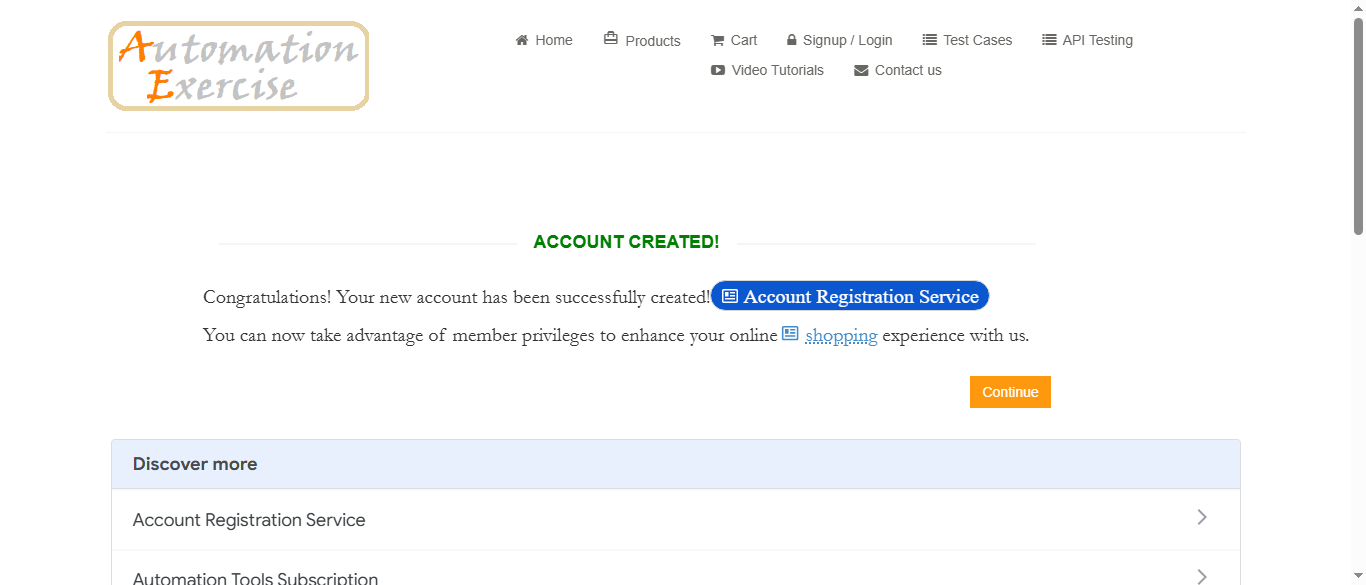
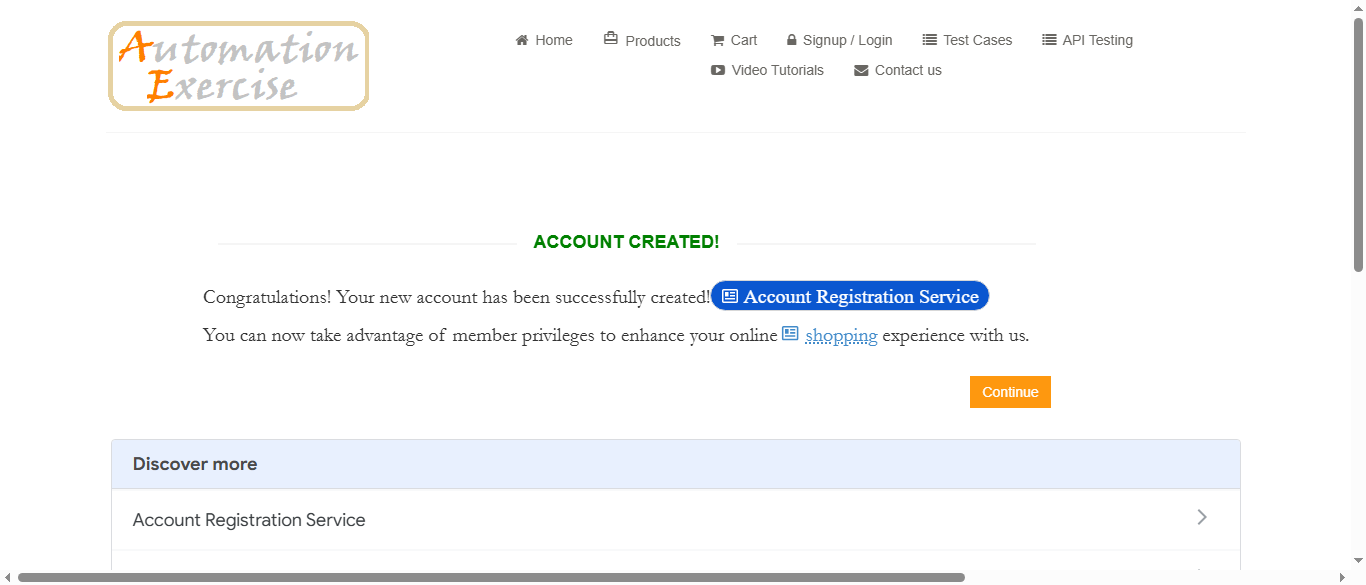
Adiciona o teste de deletar conta

Changed region(s): [[0.0, 0.9538, 0.7072, 1.0], [0.9839, 0.4, 1.0, 0.4615], [0.9839, 0.9538, 1.0, 0.9846]]

diff --git a/Testes/testeDeletarConta.py b/Testes/testeDeletarConta.py
@@ -1,0 +1,66 @@
+import time
+
+from selenium import webdriver
+from selenium.webdriver.common.by import By
+from selenium.webdriver.support.ui import WebDriverWait
+from selenium.webdriver.support import expected_conditions as EC
+from selenium.webdriver.support.ui import Select
+
+def test_loginUsuario():
+    navegador = webdriver.Chrome()
+    
+    try:
+        navegador.maximize_window()
+        navegador.get("https://www.automationexercise.com/")
+
+        cadastroLogin = navegador.find_element(
+            By.XPATH,
+            '//*[@id="header"]/div/div/div/div[2]/div/ul/li[4]/a/i'
+        )
+        cadastroLogin.click()
+
+        adicionaEmail = navegador.find_element(
+            By.XPATH,
+            '//*[@id="form"]/div/div/div[1]/div/form/input[2]'
+        )
+        adicionaEmail.send_keys("testeamazon985@gmail.com")
+
+        EscreverSenha = navegador.find_element(
+            By.XPATH,
+            '//*[@id="form"]/div/div/div[1]/div/form/input[3]'
+        )
+        EscreverSenha.send_keys('Senha1234@')
+
+        navegador.execute_script("document.body.style.zoom='80%'")
+
+        clicarLogin = navegador.find_element(
+            By.XPATH,
+            '//*[@id="form"]/div/div/div[1]/div/form/button'
+        )
+        clicarLogin.click()
+
+        WebDriverWait(navegador, 10).until(
+            EC.visibility_of_element_located(
+                (By.XPATH, "//a[contains(text(),'Logged in as')]")
+            )
+        )
+
+        deletarConta = navegador.find_element(
+            By.XPATH,
+            '//*[@id="header"]/div/div/div/div[2]/div/ul/li[5]/a'
+        )
+        deletarConta.click()
+
+        time.sleep(5)
+
+        WebDriverWait(navegador, 10).until(
+            EC.visibility_of_element_located(
+                (By.XPATH, "//*[contains(text(), 'Account Deleted!')]")
+            )
+        )
+
+        navegador.save_screenshot("Evidencias/CT08_deletar_conta.png")
+
+    finally:
+        time.sleep(5)
+        navegador.quit()
